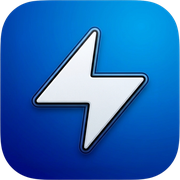
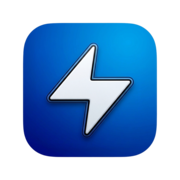
Minor Fix

diff --git a/src/app/layout.tsx b/src/app/layout.tsx
@@ -79,10 +79,11 @@ export const metadata: Metadata = {
     ],
   },
   twitter: {
-    // A summary card keeps the square logo beside the title and description,
-    // which is the layout the card preview uses. summary_large_image drops the
-    // description in that preview.
-    card: "summary",
+    // The 1200x630 image is the point of the card. A summary card shrinks it to
+    // a thumbnail next to the text, so use the large image layout instead.
+    card: "summary_large_image",
+    site: "@m_tanveerabbas",
+    creator: "@m_tanveerabbas",
     title: SITE_TITLE,
     description: SITE_DESCRIPTION,
     images: [
@@ -93,14 +94,39 @@ export const metadata: Metadata = {
     ],
   },
   icons: {
-    // All sizes are derived from public/Kanbi.png. The old favicon.ico,
-    // favicon.svg, icon-64.png and apple-icon-180.png files were removed.
+    // Every size is resized from public/Kanbi.png, so the favicon is the real
+    // logo. Its corners stay transparent instead of being filled white.
     icon: [
+      { url: "/favicon-32x32.png", type: "image/png", sizes: "32x32" },
       { url: "/favicon.ico", type: "image/x-icon", sizes: "any" },
       { url: "/icon.png", type: "image/png", sizes: "64x64" },
     ],
     apple: [{ url: "/apple-icon.png", type: "image/png", sizes: "180x180" }],
     shortcut: "/favicon.ico",
+  },
+};
+
+/**
+ * Structured data for crawlers. Kept as one object and stringified so the
+ * values cannot drift away from the title, description and URL used above.
+ * No ratings or review counts are included because none are measured.
+ */
+const structuredData = {
+  "@context": "https://schema.org",
+  "@type": "WebPage",
+  name: SITE_TITLE,
+  description: SITE_DESCRIPTION,
+  url: SITE_URL,
+  image: `${SITE_URL}/opengraph-image`,
+  inLanguage: "en",
+  publisher: {
+    "@type": "Organization",
+    name: "KANBI",
+    url: SITE_URL,
+    logo: {
+      "@type": "ImageObject",
+      url: `${SITE_URL}/Kanbi.png`,
+    },
   },
 };
 
@@ -131,6 +157,15 @@ export default function RootLayout({
           so crawlers checking for og:logo find it on every page.
         */}
         <meta property="og:logo" content={`${SITE_URL}/Kanbi.png`} />
+        {/*
+          Next.js has no JSON-LD field in the metadata API. Emit the exact
+          script tag here so crawlers can read it on the server rendered page.
+        */}
+        <script
+          id="structured-data"
+          type="application/ld+json"
+          dangerouslySetInnerHTML={{ __html: JSON.stringify(structuredData) }}
+        />
         {/*
           The palette for both themes, emitted once. Every page used to carry
           its own copy interpolated from React state, which is why the first

diff --git a/src/app/page.tsx b/src/app/page.tsx
@@ -1,16 +1,18 @@
 import { Metadata } from 'next';
-import { redirect } from 'next/navigation';
 import { SITE_URL } from '@/app/sitemap';
-import { createClient } from '@/lib/supabase/server';
 import LandingPage from '@/components/LandingPage';
 
+const HOME_TITLE = 'Kanbi, AI task boards for freelancers';
+const HOME_DESCRIPTION = 'Paste notes, emails, or PDFs. Kanbi extracts tasks onto a Kanban board with workload health and autopilot planning.';
+const HOME_IMAGE_ALT = 'Kanbi - a Kanban board filled with extracted tasks. Try Kanbi free, no card needed.';
+
 export const metadata: Metadata = {
-  title: 'Kanbi, AI task boards for freelancers',
-  description: 'Paste notes, emails, or PDFs. Kanbi extracts tasks onto a Kanban board with workload health and autopilot planning.',
+  title: HOME_TITLE,
+  description: HOME_DESCRIPTION,
   alternates: { canonical: SITE_URL },
   openGraph: {
-    title: 'Kanbi, AI task boards for freelancers',
-    description: 'Paste notes, emails, or PDFs. Kanbi extracts tasks onto a Kanban board with workload health and autopilot planning.',
+    title: HOME_TITLE,
+    description: HOME_DESCRIPTION,
     url: SITE_URL,
     type: 'website',
     // Next.js merges metadata shallowly, so this page-level openGraph replaces
@@ -22,18 +24,27 @@ export const metadata: Metadata = {
         url: '/opengraph-image',
         width: 1200,
         height: 630,
-        alt: 'Kanbi - a Kanban board filled with extracted tasks. Try Kanbi free, no card needed.',
+        alt: HOME_IMAGE_ALT,
+      },
+    ],
+  },
+  // The same applies to twitter. Keep every field here so the card keeps its
+  // large image layout and attribution when this object replaces the root one.
+  twitter: {
+    card: 'summary_large_image',
+    site: '@m_tanveerabbas',
+    creator: '@m_tanveerabbas',
+    title: HOME_TITLE,
+    description: HOME_DESCRIPTION,
+    images: [
+      {
+        url: '/twitter-image',
+        alt: 'Kanbi - turn notes into a Kanban board. Try Kanbi free, no card needed.',
       },
     ],
   },
 };
 
-export default async function Home() {
-  const supabase = await createClient();
-  const { data: { user } } = await supabase.auth.getUser();
-
-  // Already logged in <Icons.ArrowRight size={13}/> skip landing page, go straight to dashboard
-  if (user) redirect('/dashboard');
-
+export default function Home() {
   return <LandingPage />;
 }

diff --git a/src/proxy.ts b/src/proxy.ts
@@ -42,6 +42,14 @@ export async function proxy(request: NextRequest) {
     return NextResponse.redirect(new URL('/dashboard', request.url))
   }
 
+  // Signed-in visitors used to be redirected from page.tsx, which called
+  // getUser() a second time on every request and kept the landing page dynamic.
+  // The middleware already knows the answer, so redirect here and let the page
+  // be prerendered and served from the CDN.
+  if (user && pathname === '/') {
+    return NextResponse.redirect(new URL('/dashboard', request.url))
+  }
+
   const isPublic = PUBLIC_PATHS.some(p => pathname === p || pathname.startsWith(p + '/'))
   if (!user && !isPublic && pathname.startsWith('/dashboard')) {
     return NextResponse.redirect(new URL('/sign-in', request.url))
